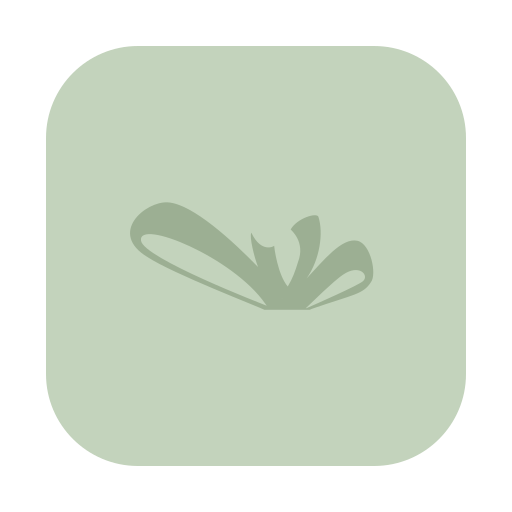
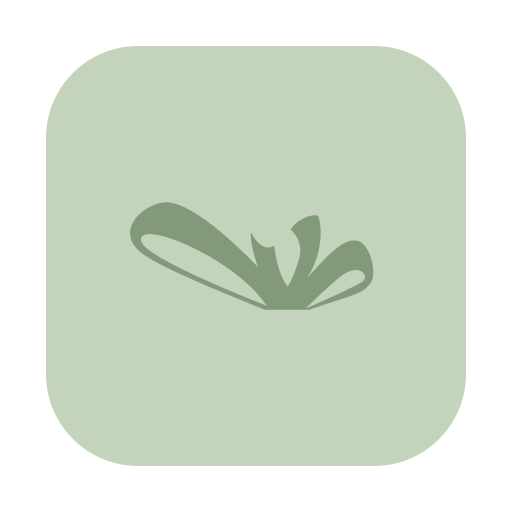
Improve welcome screen and navigation

Changed region(s): [[0.25, 0.375, 0.75, 0.625]]

diff --git a/app/WinkelSidebar.tsx b/app/WinkelSidebar.tsx
@@ -179,10 +179,13 @@ export default function WinkelSidebar({
       <aside className="hidden md:sticky md:top-0 md:flex md:h-dvh md:w-[7rem] md:shrink-0 md:flex-col md:items-center md:gap-5 md:rounded-r-[4rem] md:border-r md:border-[#c6d8bf] md:bg-[#c3d3bc] md:px-4 md:py-6">
         <Link
           href="/"
-          className="mb-7 flex h-14 w-14 items-center justify-center rounded-3xl bg-white/80 shadow-sm"
-          title="Strik"
+          aria-label="Home"
+          className="group relative mb-7 flex h-14 w-14 items-center justify-center rounded-3xl bg-white/80 shadow-sm"
         >
           <img src="/strik-logo.png" alt="Strik" className="h-9 w-9 object-contain" />
+          <span className="pointer-events-none absolute left-[calc(100%+0.75rem)] top-1/2 z-[70] -translate-y-1/2 translate-x-1 whitespace-nowrap rounded-lg bg-[#183d29] px-3 py-2 text-xs font-black text-white opacity-0 shadow-lg transition group-hover:translate-x-0 group-hover:opacity-100 group-focus-visible:translate-x-0 group-focus-visible:opacity-100">
+            Home
+          </span>
         </Link>
         {mainItems.map((item) => {
           let active = isActivePath(pathname, item.href);
@@ -196,12 +199,12 @@ export default function WinkelSidebar({
             <Link
               key={item.href}
               href={item.href}
-              className={`flex h-14 w-14 items-center justify-center rounded-3xl transition ${
+              aria-label={item.label}
+              className={`group relative flex h-14 w-14 items-center justify-center rounded-3xl transition ${
                 active
                   ? "bg-white text-[#ef5737] shadow-sm ring-1 ring-white/80"
                   : "hover:bg-white/45"
               }`}
-              title={item.label}
             >
               <img
                 src={item.icon}
@@ -209,6 +212,9 @@ export default function WinkelSidebar({
                 className="h-9 w-9 object-contain"
               />
               <span className="sr-only">{item.label}</span>
+              <span className="pointer-events-none absolute left-[calc(100%+0.75rem)] top-1/2 z-[70] -translate-y-1/2 translate-x-1 whitespace-nowrap rounded-lg bg-[#183d29] px-3 py-2 text-xs font-black text-white opacity-0 shadow-lg transition group-hover:translate-x-0 group-hover:opacity-100 group-focus-visible:translate-x-0 group-focus-visible:opacity-100">
+                {item.label}
+              </span>
             </Link>
           );
         })}
@@ -223,12 +229,12 @@ export default function WinkelSidebar({
               <Link
                 key={item.href}
                 href={item.href}
-                className={`relative flex h-14 w-14 items-center justify-center rounded-2xl transition ${
+                aria-label={item.label}
+                className={`group relative flex h-14 w-14 items-center justify-center rounded-2xl transition ${
                   active
                     ? "bg-[#ef5737] shadow-sm"
                     : "hover:bg-[#f8f6f3]"
                 }`}
-                title={item.label}
               >
                 <img
                   src={item.icon}
@@ -236,6 +242,9 @@ export default function WinkelSidebar({
                   className={`${item.desktopIconClass ?? "h-8 w-8"} object-contain ${active ? "brightness-0 invert" : ""}`}
                 />
                 <span className="sr-only">{item.label}</span>
+                <span className="pointer-events-none absolute left-[calc(100%+0.75rem)] top-1/2 z-[70] -translate-y-1/2 translate-x-1 whitespace-nowrap rounded-lg bg-[#183d29] px-3 py-2 text-xs font-black text-white opacity-0 shadow-lg transition group-hover:translate-x-0 group-hover:opacity-100 group-focus-visible:translate-x-0 group-focus-visible:opacity-100">
+                  {item.label}
+                </span>
               </Link>
             );
           })}

diff --git a/app/page.tsx b/app/page.tsx
@@ -6,6 +6,7 @@ import { filterVisibleMainNavigationItems } from "./featureVisibility";
 import { getFeatureVisibilitySettings } from "./lib/appSettings";
 import { filterAllowedItems } from "./lib/auth/access";
 import { getCurrentProfile } from "./lib/auth/session";
+import type { UserProfile } from "./lib/supabase/types";
 
 const baseSections = [
   {
@@ -56,6 +57,32 @@ const baseSections = [
 
 export const dynamic = "force-dynamic";
 
+function getFirstName(profile: UserProfile | null) {
+  const fullName = profile?.full_name.trim();
+  if (fullName) return fullName.split(/\s+/)[0];
+
+  const emailName = profile?.email.split("@")[0]?.trim();
+  return emailName || "daar";
+}
+
+function getPersonalGreeting(profile: UserProfile | null) {
+  const currentHour = Number(
+    new Intl.DateTimeFormat("nl-NL", {
+      hour: "2-digit",
+      hour12: false,
+      timeZone: "Europe/Amsterdam",
+    }).format(new Date())
+  );
+  const greeting =
+    currentHour < 12
+      ? "Goedemorgen"
+      : currentHour < 18
+        ? "Goedemiddag"
+        : "Goedenavond";
+
+  return `${greeting}, ${getFirstName(profile)}`;
+}
+
 export default async function Home() {
   const [profile, featureVisibility] = await Promise.all([
     getCurrentProfile(),
@@ -68,20 +95,27 @@ export default async function Home() {
 
   return (
     <main className="min-h-screen bg-[#faf8f5] px-4 py-5 text-[#1a1815] sm:px-6 lg:px-8">
-      <div className="mx-auto max-w-6xl space-y-4 sm:space-y-5">
-        <header className="flex min-w-0 flex-col gap-3 pb-1 sm:flex-row sm:items-center sm:gap-4">
-          <div className="flex min-w-0 items-center gap-3">
+      <div className="mx-auto max-w-6xl space-y-5 sm:space-y-6">
+        <header className="min-w-0 border-b border-[#e6dfd5] pb-5 pr-12 sm:pb-6">
+          <div className="flex min-w-0 items-center gap-2 text-[#ef5737]">
             <span
               aria-hidden="true"
-              className="block h-[clamp(1rem,4.4vw,1.8rem)] w-[clamp(1rem,4.4vw,1.8rem)] shrink-0 bg-[#ef5737]"
+              className="block h-4 w-4 shrink-0 bg-[#ef5737]"
               style={{
                 WebkitMask: `url("${strikIcons.management}") center / contain no-repeat`,
                 mask: `url("${strikIcons.management}") center / contain no-repeat`,
               }}
             />
-            <StrikPageTitle title="Strik Team App" />
+            <span className="text-[0.67rem] font-black uppercase tracking-[0.28em] sm:text-xs">
+              Strik Team App
+            </span>
           </div>
-
+          <div className="mt-2">
+            <StrikPageTitle title={getPersonalGreeting(profile)} />
+          </div>
+          <p className="mt-1 text-sm font-semibold text-[#766f66] sm:text-base">
+            Fijn dat je er bent. Waar wil je beginnen?
+          </p>
         </header>
 
         <section className="mx-auto grid w-full max-w-[calc(100vw-3.5rem)] grid-cols-1 gap-2 sm:max-w-none sm:grid-cols-2 sm:gap-3 xl:grid-cols-6">

diff --git a/app/BottomNav.tsx b/app/BottomNav.tsx
@@ -3,6 +3,7 @@
 /* eslint-disable @next/next/no-img-element */
 import Link from "next/link";
 import { usePathname } from "next/navigation";
+import { useEffect, useRef } from "react";
 import { strikIcons } from "./StrikUI";
 import {
   filterVisibleMainNavigationItems,
@@ -62,14 +63,33 @@ export default function BottomNav({
   profile: UserProfile | null;
 }>) {
   const pathname = usePathname();
+  const scrollContainerRef = useRef<HTMLDivElement | null>(null);
   const visibleItems = filterAllowedItems(
     filterVisibleMainNavigationItems(items, featureVisibility),
     profile
   );
 
+  useEffect(() => {
+    const activeItem = scrollContainerRef.current?.querySelector<HTMLElement>(
+      '[data-active="true"]'
+    );
+
+    activeItem?.scrollIntoView({
+      behavior: "smooth",
+      block: "nearest",
+      inline: "center",
+    });
+  }, [pathname]);
+
   return (
-    <nav className="fixed bottom-0 left-0 right-0 z-50 border-t border-[#e8e4de] bg-white/95 px-4 py-3 backdrop-blur-md md:hidden">
-      <div className="mx-auto flex max-w-lg items-center justify-between gap-2">
+    <nav
+      aria-label="Hoofdnavigatie"
+      className="fixed bottom-0 left-0 right-0 z-50 border-t border-[#e8e4de] bg-white/95 px-2 pt-1.5 pb-[max(0.45rem,env(safe-area-inset-bottom))] backdrop-blur-md md:hidden"
+    >
+      <div
+        ref={scrollContainerRef}
+        className="mx-auto flex max-w-full snap-x snap-proximity items-center gap-1 overflow-x-auto overscroll-x-contain [scrollbar-width:none] [&::-webkit-scrollbar]:hidden"
+      >
         {visibleItems.map((item) => {
           const active = isActivePath(pathname, item.href);
 
@@ -77,14 +97,19 @@ export default function BottomNav({
             <Link
               key={item.href}
               href={item.href}
-              className={`flex flex-1 flex-col items-center justify-center gap-1 rounded-2xl px-3 py-2 text-center text-[0.7rem] font-semibold transition ${
+              data-active={active ? "true" : undefined}
+              className={`flex h-[4.25rem] min-w-[4.45rem] shrink-0 snap-start flex-col items-center justify-center gap-0.5 rounded-2xl px-1.5 py-1 text-center text-[0.6rem] font-bold transition ${
                 active
                   ? "bg-[#ecf4ed] text-[#214456] shadow-sm"
                   : "text-[#6b645b] hover:bg-[#f6faf4] hover:text-[#4a6d5a]"
               }`}
             >
-              <img src={item.icon} alt="" className="h-5 w-5 object-contain" />
-              <span className="leading-tight">{item.label}</span>
+              <img
+                src={item.icon}
+                alt=""
+                className={`${item.href === "/" ? "h-9 w-9" : "h-5 w-5"} shrink-0 object-contain`}
+              />
+              <span className="whitespace-nowrap leading-none">{item.label}</span>
             </Link>
           );
         })}
